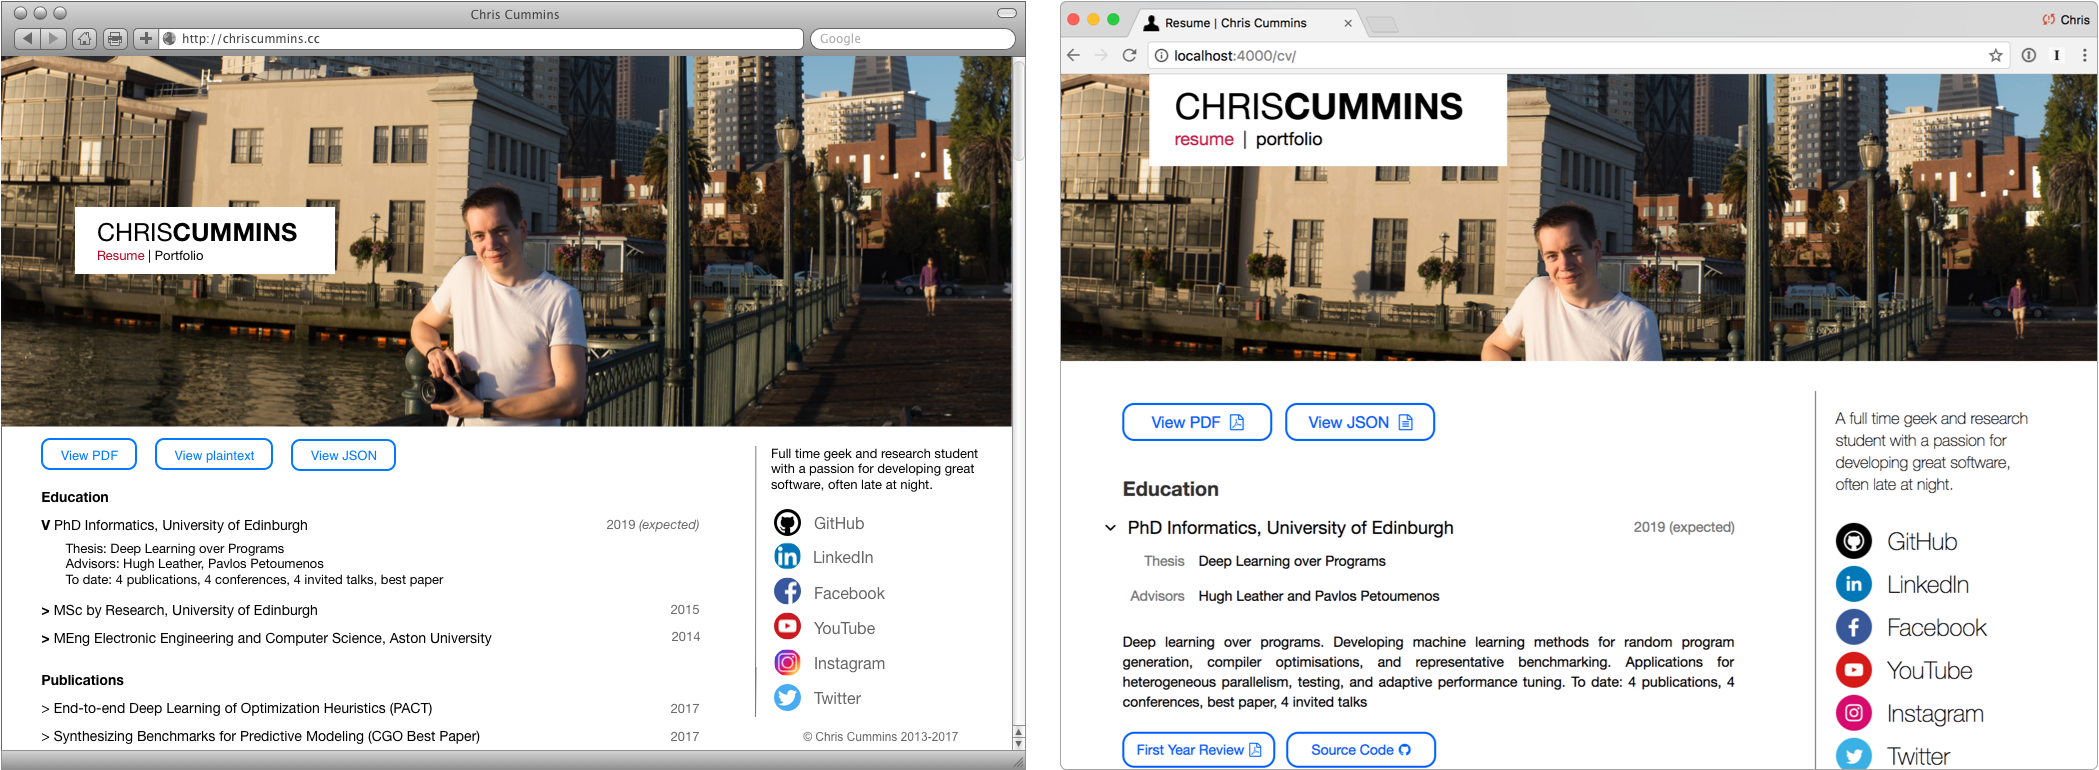
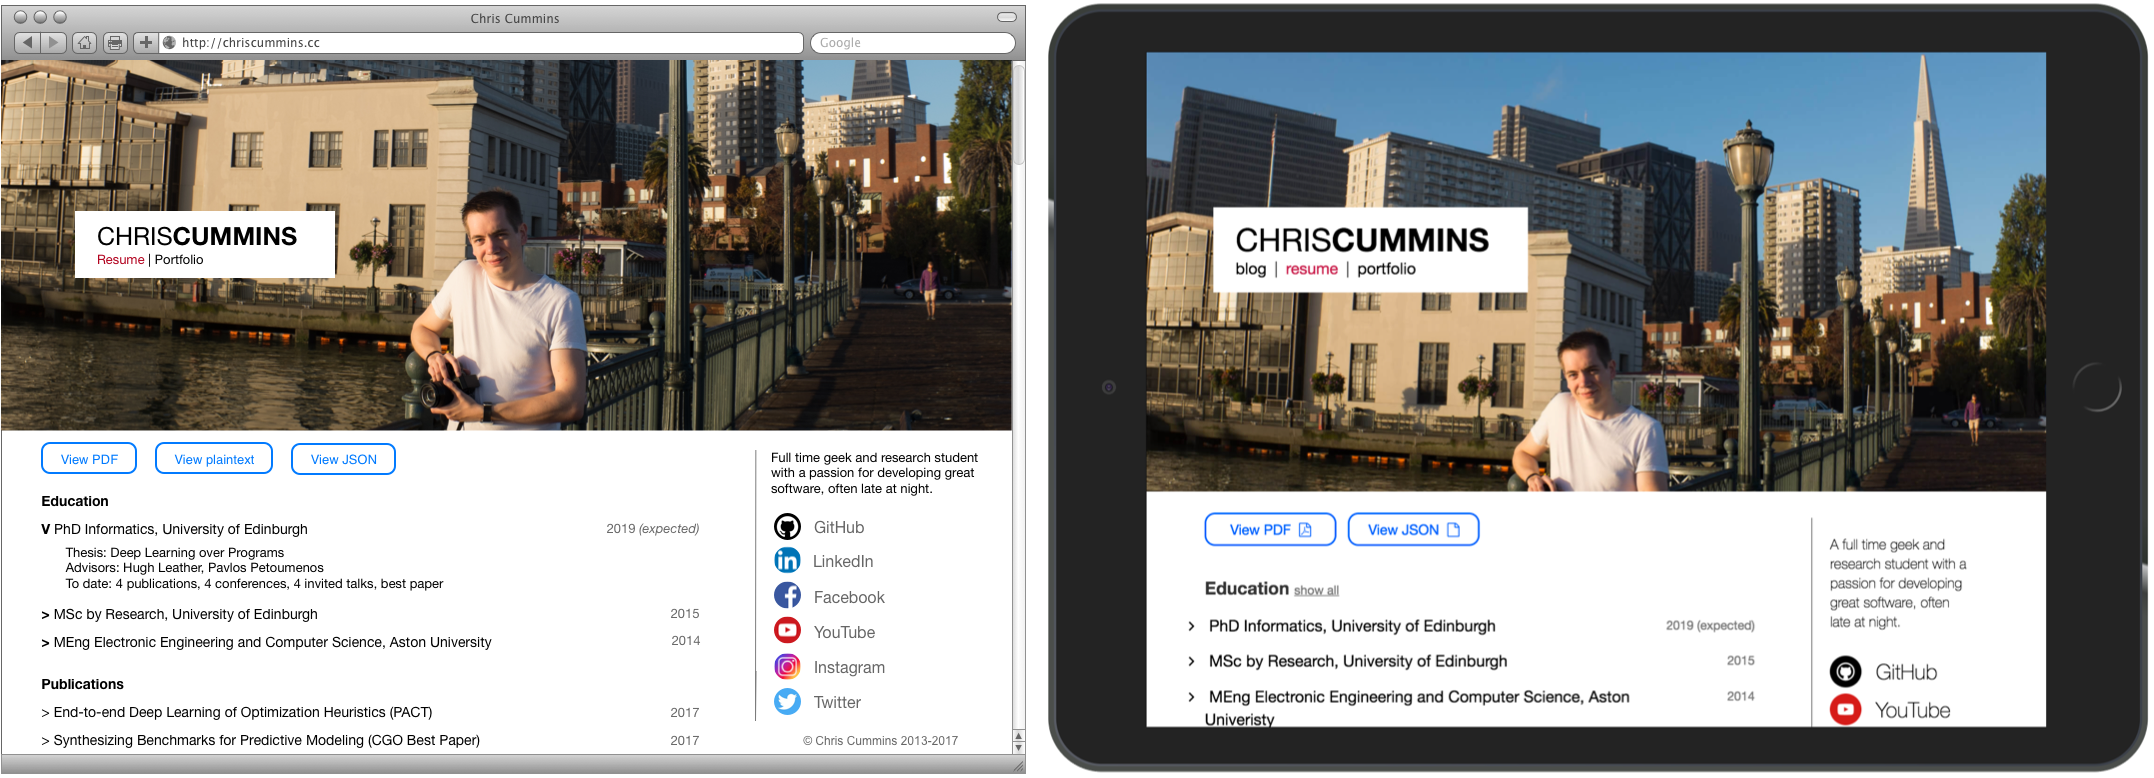
wip on revamp post

diff --git a/_drafts/site-revamp.md b/_drafts/site-revamp.md
@@ -1,0 +1,48 @@
+---
+title: Made with love, tears, and bootstrap
+banner: /img/banners/holyrood-park.jpg
+---
+
+We're back with a fresh new look. Out with the old, in with the new.
+
+Old design was nice, but was a little sparse and scaled poorly: 
+
+![]({{ '/img/2017/revamp-old-site-home.png' | relative_url }})
+
+Mockup in [Balsamiq](https://balsamiq.com/). Made some tweaks: no more fixed "500px is good enough for desktop+mobile+tablet", and compress the sidebar on single-column view:
+
+![]({{ '/img/2017/revamp-iteration-1.png' | relative_url }})
+
+However, when you change one thing, you may as well go ahead and tick all of the things off the wishlisht. new design to double down on a complete overhaul and go for "hero image" branding:
+
+![]({{ '/img/2017/revamp-iteration-2.png' | relative_url }})
+
+Things I didn't like: the title was floating amidst the image, and when compressed down to single column width that would awkwardly sandwich my name amongst the title and the content. Also, right-side navigation is in-vogue. Let's iterate:
+
+![]({{ '/img/2017/revamp-iteration-3.png' | relative_url }})
+
+Nice, I like that. High fidelity mockup in [OmniGraffle](https://www.omnigroup.com/omnigraffle/):
+
+![]({{ '/img/2017/revamp-mockup-home.png' | relative_url }})
+
+Time to implement. [Bootstrap](https://getbootstrap.com/) with a bunch of SASS and a sprinkle of jQuery. Revamped CV - before and after:
+
+![]({{ '/img/2017/revamp-cv.png' | relative_url }})
+
+blog - before and after:
+
+![]({{ '/img/2017/revamp-blog.png' | relative_url }})
+
+portfolio - before and after:
+
+![]({{ '/img/2017/revamp-portfolio.png' | relative_url }})
+
+things I like:
+
+* subtle animations: sticky scroll on the right column, and pop my name over there when the hero image is out of view. parallax behind hero image
+* using a lot more templating: e.g. `relative_url` for a staging site.
+* all of the content for the resume and portfolio are stored in a single JSON file, programatically instantiated by Jekyll to generate HTML.
+* dates next to titles "hang right" on desktop, but on narrow displays where real estate is limited, they slip under the title
+* mobile scaling:
+
+![]({{ '/img/2017/revamp-mobile.png' | relative_url }})
